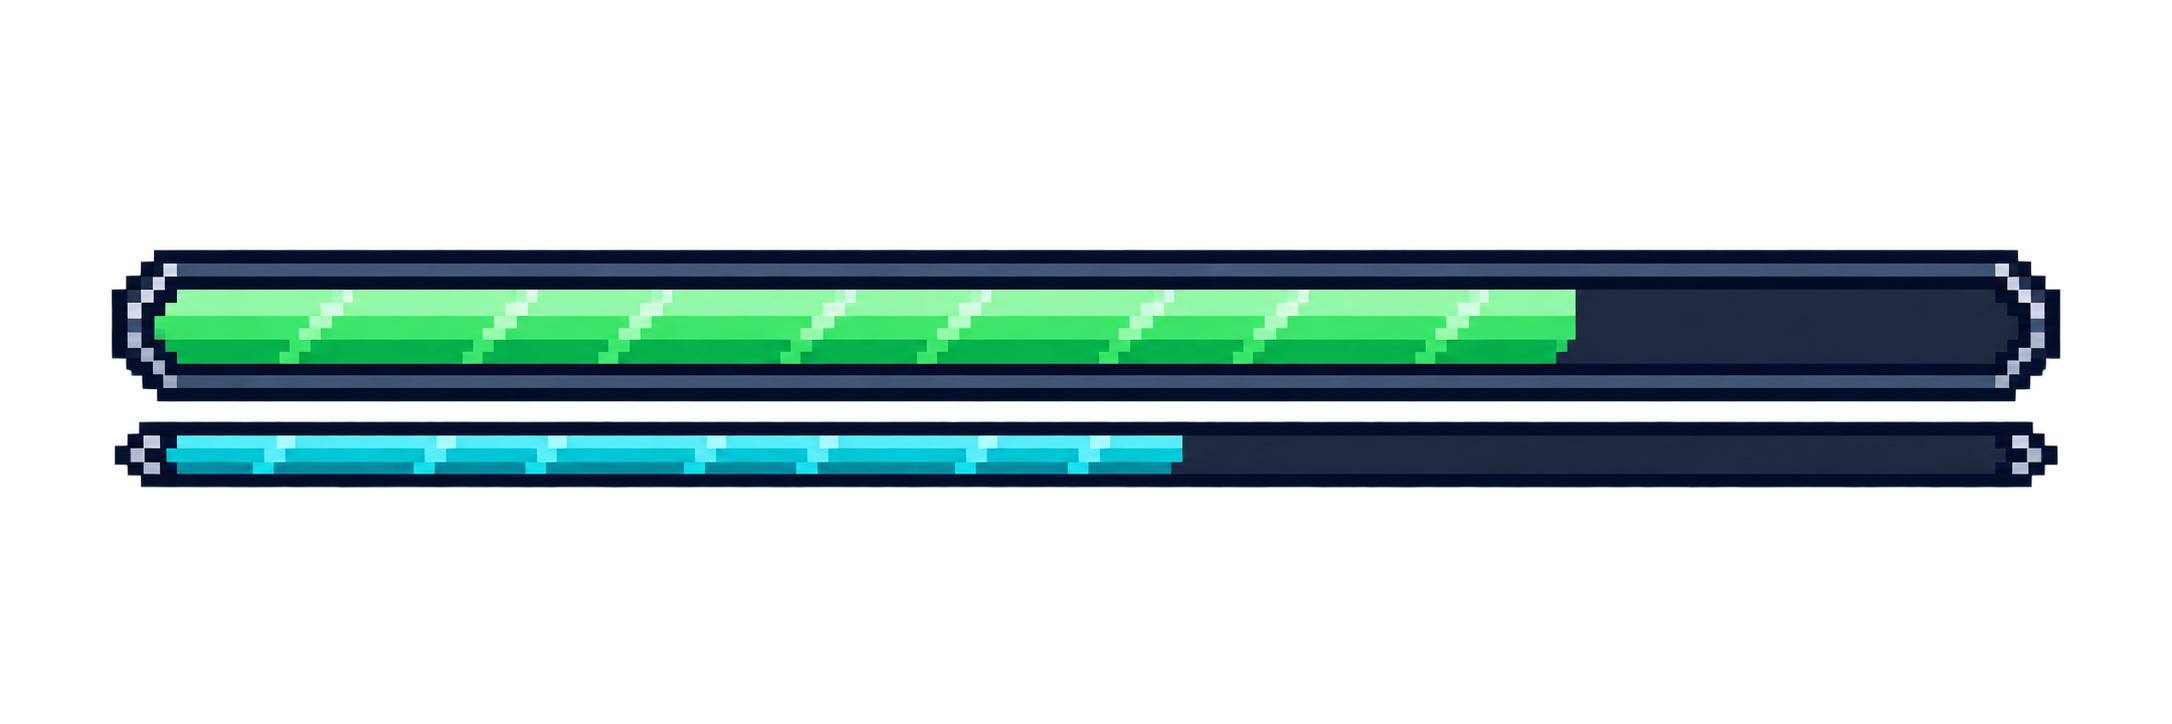
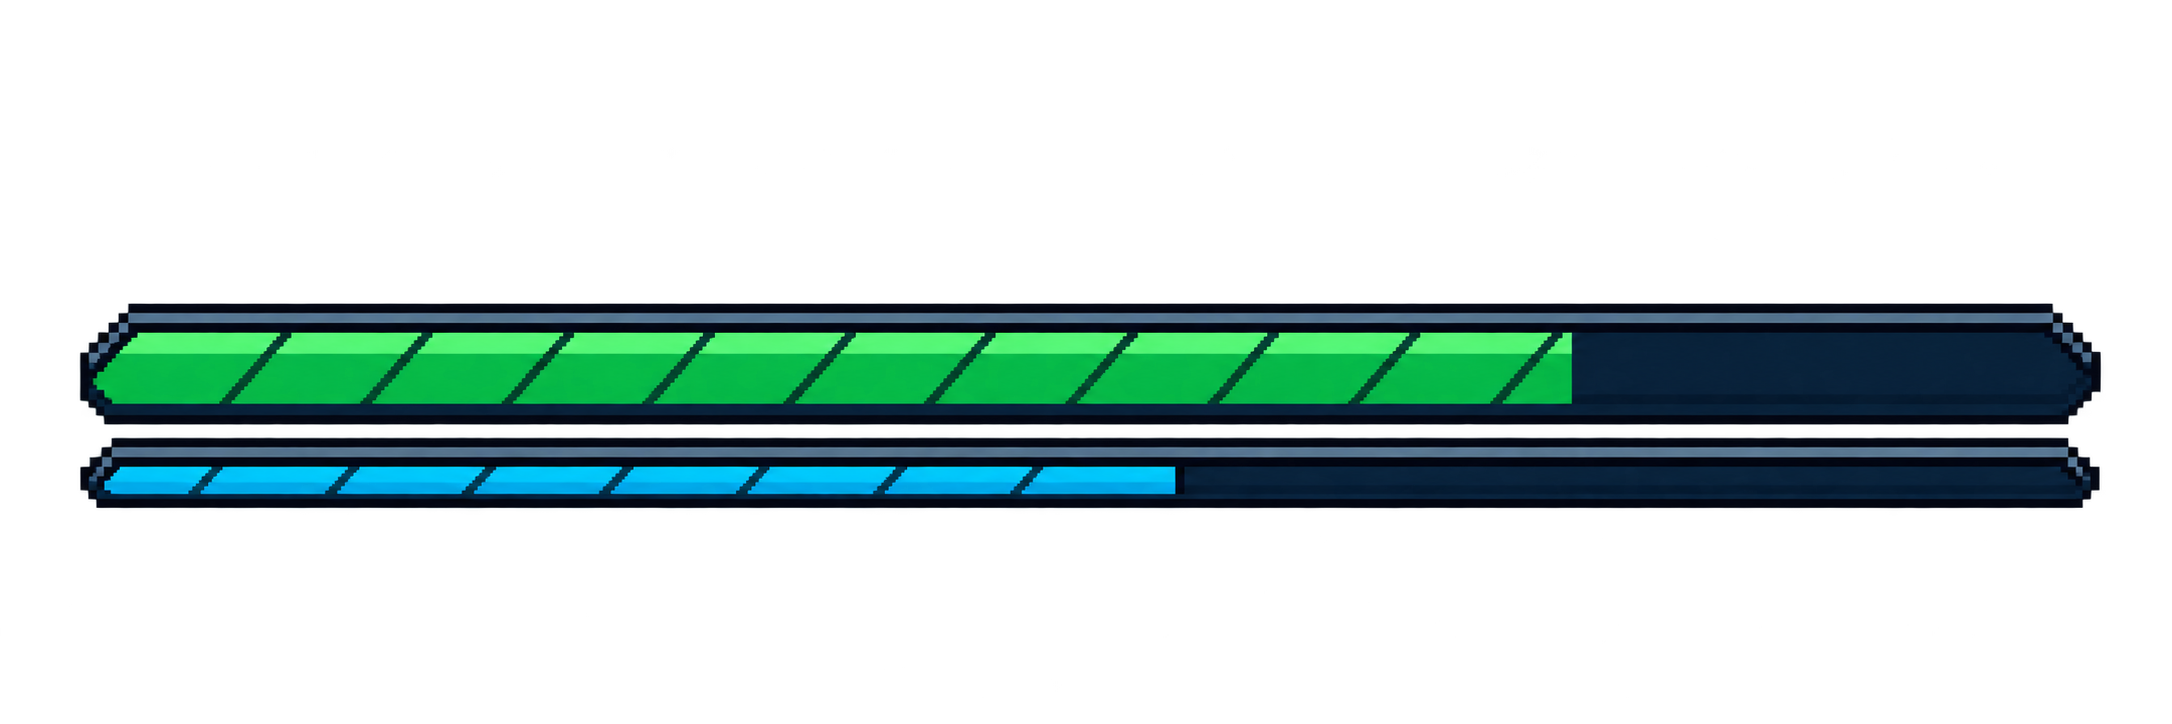
art: replace status bar design with v2 and document preview usage

Changed region(s): [[0.0308, 0.3343, 0.9871, 0.7293]]

diff --git a/assets/future-use/status-bars/preview.html b/assets/future-use/status-bars/preview.html
@@ -1,0 +1,16 @@
+<!doctype html>
+<html lang="zh-Hant">
+<meta charset="utf-8">
+<meta name="viewport" content="width=device-width, initial-scale=1">
+<title>血條與藍色條 · 第二版預覽</title>
+<style>
+body{margin:0;padding:24px;background:#16253b;color:#eef7ff;font:16px/1.7 system-ui,sans-serif}main{max-width:1000px;margin:auto}h1{font-size:24px}figure{margin:16px 0;padding:16px;background:#223950;border:1px solid #45617a;border-radius:8px}img{display:block;max-width:100%;height:auto;image-rendering:pixelated}figcaption{color:#b8d1e5;font-size:14px}.small{width:240px}a{color:#8cdbff}
+</style>
+<main>
+<h1>血條與藍色條 · 第二版</h1>
+<p>此頁展示合併設計稿，填色比例為固定示意；尚未接入遊戲數值。</p>
+<figure><img src="hp-and-blue-bar-design.png" alt="薄深色外框、綠色斜線血條與細青藍色條"><figcaption>完整設計稿，自適應頁面寬度</figcaption></figure>
+<figure><img class="small" src="hp-and-blue-bar-design.png" alt="寬度 240 像素的狀態條設計稿"><figcaption>整張圖片寬度 240px，保留原圖透明留白</figcaption></figure>
+<p><a href="README.md">執行與接入說明</a></p>
+</main>
+</html>

diff --git a/assets/future-use/status-bars/README.md b/assets/future-use/status-bars/README.md
@@ -1,8 +1,47 @@
-# 血條與藍色進度條設計稿
+# 血條與藍色進度條（第二版）
 
-- `hp-and-blue-bar-design.png`：上方綠色血條、下方青藍色進度條，像素風格。
-- 圖片尺寸：2172 × 724。
-- 用途：後續角色狀態介面美術參考與預備素材。
-- 狀態：尚未接入遊戲。這是合併設計稿，並非已分層的動態元件。
-- 工程接入前需將外框、底槽及填色分離；填色長度由程式依數值控制。
-- 藍色條的實際用途依遊戲邏輯決定，本素材不指定其機制。
+`hp-and-blue-bar-design.png` 已替換為第二版：薄深色外框、綠色斜線血條、下方細青藍色條。舊版可由 Git 歷史取得。尺寸 2172 × 724，透明 RGBA PNG。
+
+## 執行預覽
+
+在專案根目錄執行（需 Python 3）：
+
+```sh
+python3 -m http.server 8000
+```
+
+瀏覽器開啟：
+
+```text
+http://localhost:8000/assets/future-use/status-bars/preview.html
+```
+
+也可以直接開啟同資料夾的 `preview.html`。預覽不需要安裝套件。
+
+## 工程使用方式
+
+本 PNG 是透明背景的合併設計稿，包含固定長度的綠色及藍色填色，尚未接入遊戲。預覽中的圖片不會依數值變動。
+
+僅展示外觀時可以使用（路徑以專案根目錄頁面為例）：
+
+```html
+<img src="assets/future-use/status-bars/hp-and-blue-bar-design.png"
+     alt="綠色血條與藍色進度條"
+     style="width: 240px; height: auto; image-rendering: pixelated;">
+```
+
+圖片包含上下透明留白；正式 HUD 排版前應依內容範圍裁切，不能把整張圖片的高度當作血條實際高度。
+
+動態元件應依本稿製作獨立的外框、空底槽及滿格填色，再由程式裁切填色；不能縮放整張合併圖，否則外框與斜線會變形。合併圖中的綠色約 75%、藍色約 55%，不能直接拿現有填色當作滿格素材。
+
+```js
+// 在已有分層素材或 Canvas 繪製函式後使用；此段僅計算比例。
+function ratio(value, maximum) {
+  return maximum > 0 ? Math.min(1, Math.max(0, value / maximum)) : 0;
+}
+const hpRatio = ratio(currentHp, maxHp);
+const visibleFillWidth = Math.round(fullFillWidth * hpRatio);
+// 以 visibleFillWidth 裁切滿格填色，最後疊上固定外框。
+```
+
+角色名稱、血量數字、等級、藍條數值及更新時機由既有遊戲程式控制。藍條用途依遊戲邏輯決定。本次只替換預備素材與使用文件，尚未修改正式遊戲畫面。
